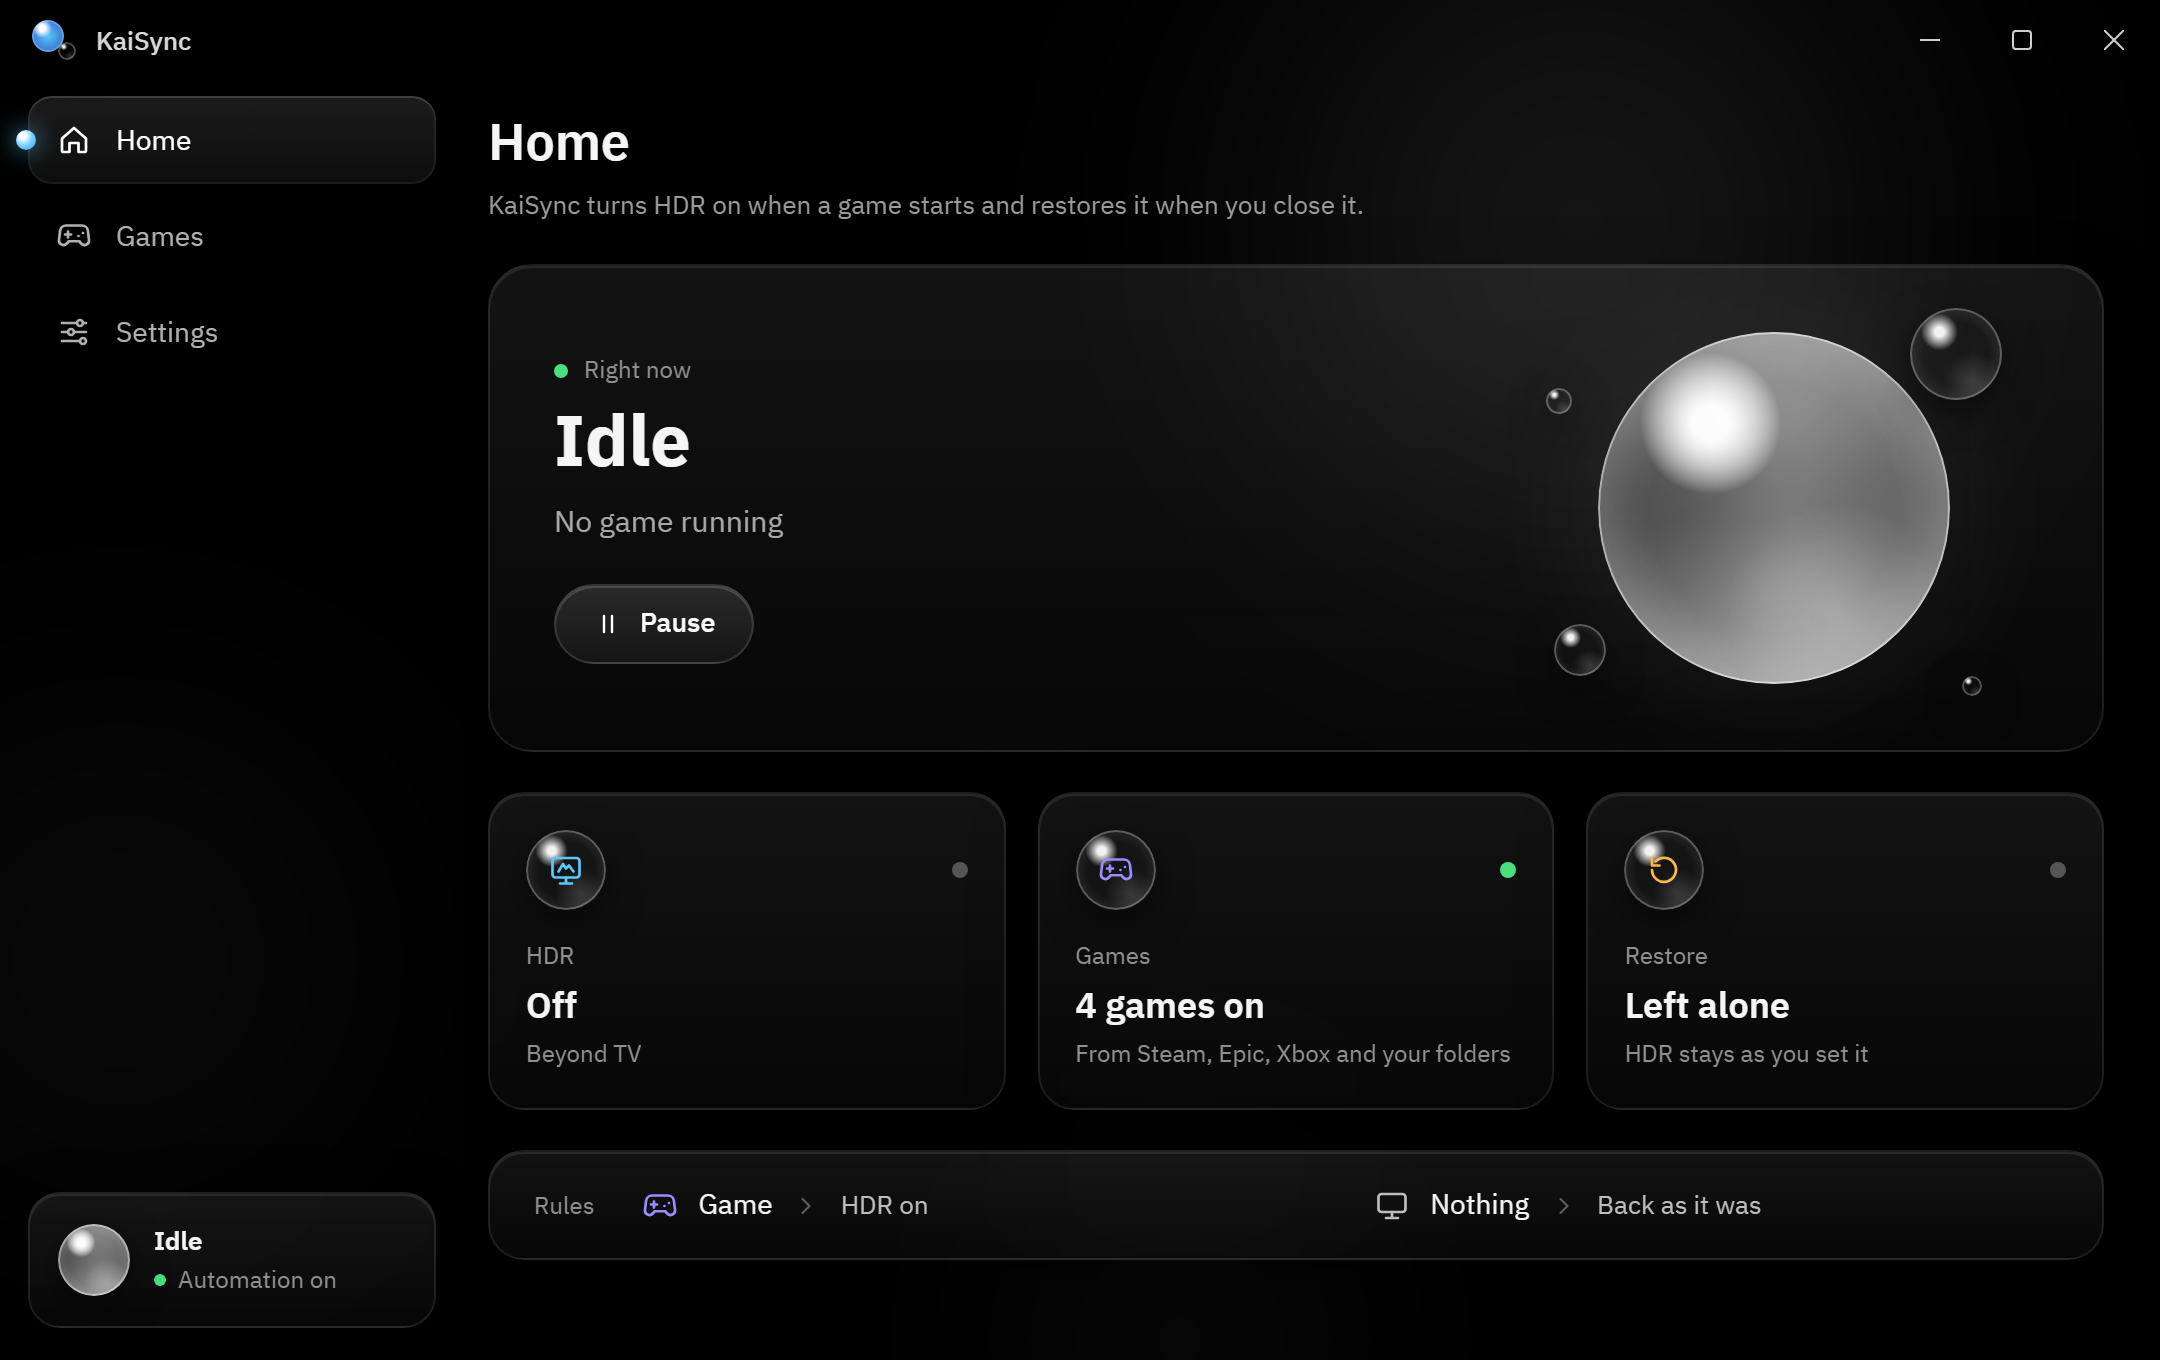
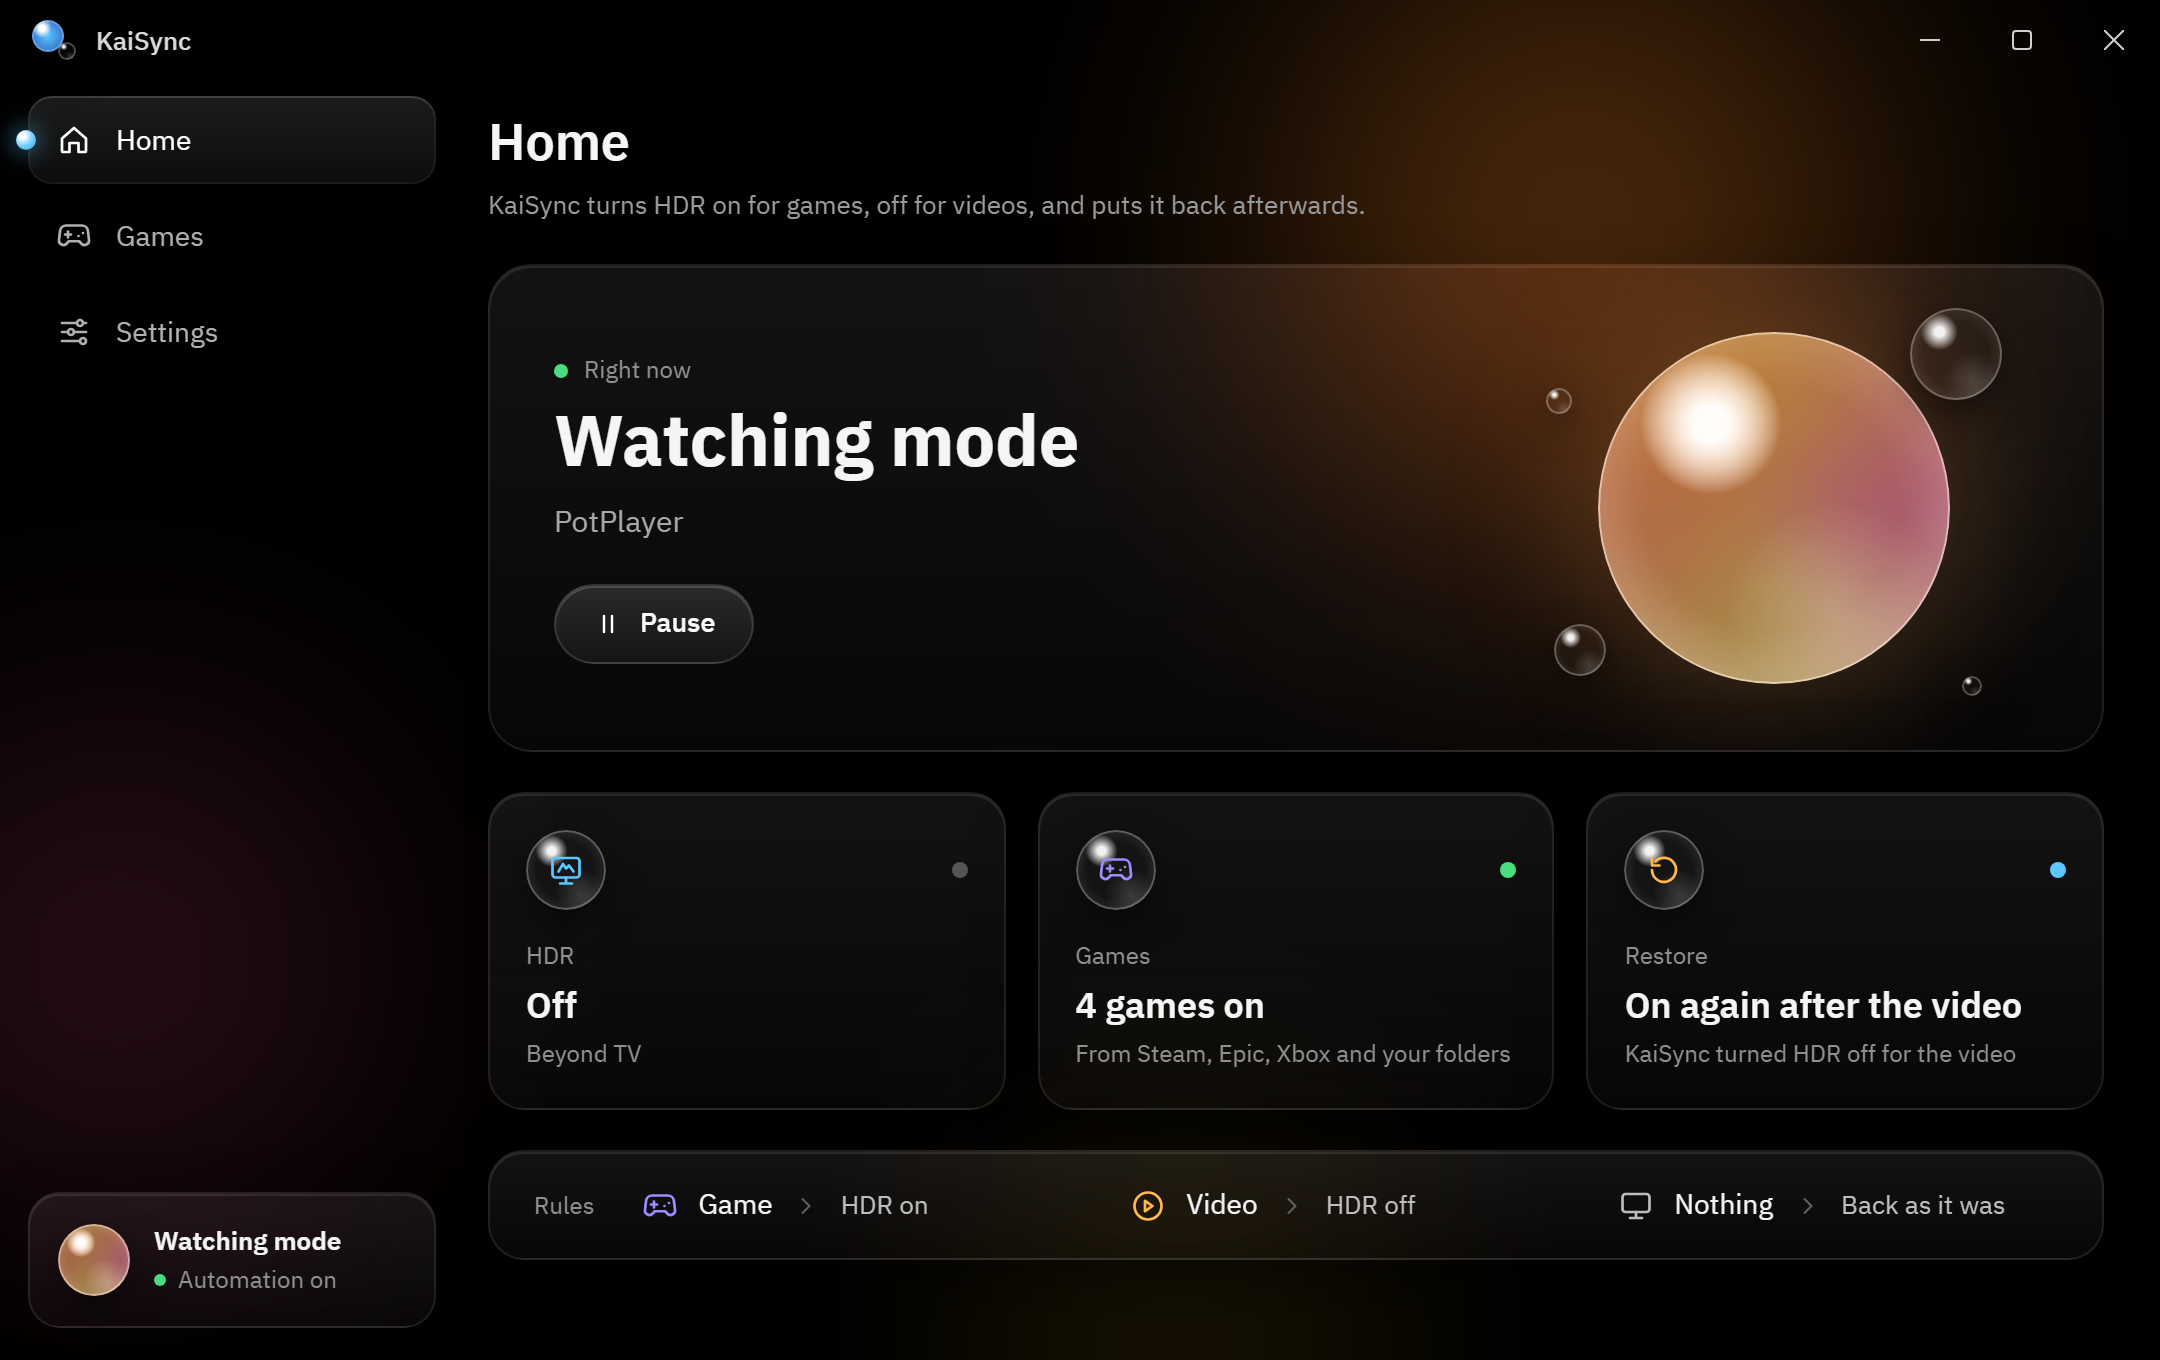
README and screenshots for 1.1.0
- README: video rule (HDR off while the player runs), priority, player setting,
  1.1.0 downloads, Watching-mode screenshot
- Home subtitle mentions videos too
- Screenshots re-captured (Watching mode, video player card, third rule)

diff --git a/README.md b/README.md
@@ -1,16 +1,23 @@
 # KaiSync
 
-برنامج صغير لويندوز ١١ يشتغل جنب الساعة. يشغّل **HDR** تلقائياً أول ما تفتح لعبة، ولما تقفلها يرجّعه زي ما كان.
+برنامج صغير لويندوز ١١ يشتغل جنب الساعة. يشغّل **HDR** تلقائياً أول ما تفتح لعبة، ويطفّيه لما تتفرج على فيديو في PotPlayer، وبعدها يرجّعه زي ما كان.
 
 ![الرئيسية](docs/screenshots/home-ar.png)
 
 | وش شغّال | HDR |
 |---|---|
 | لعبة | يشتغل |
-| ولا شي | يرجع زي ما كان. KaiSync ما يطفيه إلا إذا كان هو اللي شغّله |
+| مشغّل الفيديو (PotPlayer) | ينطفي |
+| ولا شي | يرجع زي ما كان. KaiSync ما يرجّع إلا اللي غيّره هو |
+
+الأولوية: **لعبة ← فيديو ← ولا شي**. يعني لو فيه لعبة شغّالة وPotPlayer مفتوح، HDR يبقى شغّال.
 
 - **اكتشاف الألعاب:** من Steam و Epic و Xbox، ومن مجلدات الألعاب اللي تضيفها، ومن ملفات exe تضيفها يدوياً. وتقدر تستثني أي لعبة.
-- **قاعدة الإرجاع:** إذا HDR كان شغّال قبل اللعبة، يبقى شغّال بعدها. والبرنامج يتذكر هالشي حتى لو انقفل فجأة.
+- **مشغّل الفيديو:** يلقى PotPlayer لحاله، وتقدر تختار أي مشغّل ثاني من الإعدادات.
+- **قاعدة الإرجاع:** KaiSync يرجّع بس اللي غيّره هو:
+  - إذا HDR كان شغّال قبل اللعبة، يبقى شغّال بعدها.
+  - إذا كان طافي قبل الفيديو، يبقى طافي بعده.
+  - والبرنامج يتذكر هالشي حتى لو انقفل فجأة.
 - **ما يحتاج صلاحيات مدير.**
 - **الواجهة:** بالعربي والإنجليزي، والسجلات في `%APPDATA%\KaiSync\logs\`.
 
@@ -22,8 +29,8 @@
 
 | الملف | النسخة |
 |---|---|
-| `KaiSync_1.0.0_x64-setup.exe` | **نسخة التثبيت** (هذي اللي ننصح فيها). تثبّت للمستخدم الحالي بدون صلاحيات مدير، وتضيف البرنامج لقائمة ابدأ، وتقدر تسوي أيقونة على سطح المكتب، وتقدر تحذفه من إعدادات ويندوز |
-| `KaiSync_1.0.0_x64-portable.exe` | **نسخة بورتبل**: ملف واحد يشتغل على طول بدون تثبيت. حطه في المجلد اللي تبيه وشغّله |
+| `KaiSync_1.1.0_x64-setup.exe` | **نسخة التثبيت** (هذي اللي ننصح فيها). تثبّت للمستخدم الحالي بدون صلاحيات مدير، وتضيف البرنامج لقائمة ابدأ، وتقدر تسوي أيقونة على سطح المكتب، وتقدر تحذفه من إعدادات ويندوز |
+| `KaiSync_1.1.0_x64-portable.exe` | **نسخة بورتبل**: ملف واحد يشتغل على طول بدون تثبيت. حطه في المجلد اللي تبيه وشغّله |
 
 - **أول تشغيل:** يسجّل البرنامج نفسه في التشغيل مع الويندوز، فيشتغل بالخلفية بدون نافذة، وتلقاه في السهم الصغير جنب الساعة. وتقدر تطفي هالخيار من الإعدادات.
 - **النسخة البورتبل:** إعداداتها في `%APPDATA%\KaiSync` مثل نسخة التثبيت. لو نقلت الملف لمكان ثاني، شغّله مرة من المكان الجديد عشان يتحدّث مسار التشغيل مع الويندوز.
@@ -35,9 +42,9 @@
 |---|---|
 | ![الألعاب](docs/screenshots/games-ar.png) | ![الإعدادات](docs/screenshots/settings-ar.png) |
 
-| English | قائمة الأيقونة جنب الساعة |
+| وضع المتابعة (English) | قائمة الأيقونة جنب الساعة |
 |---|---|
-| ![Home in English](docs/screenshots/home-en.png) | ![قائمة الأيقونة](docs/screenshots/tray-ar.png) |
+| ![Watching mode in English](docs/screenshots/home-en.png) | ![قائمة الأيقونة](docs/screenshots/tray-ar.png) |
 
 ## طريقة الاستخدام
 
@@ -51,6 +58,7 @@
 ## ملاحظات
 
 - **متى يشتغل HDR:** أول ما تظهر اللعبة، بدون انتظار. السبب إن ألعاب كثيرة، مثل ألعاب Unreal، تفحص HDR مرة وحدة بس وقت ما تشتغل. أما إطفاؤه فما يصير إلا إذا بقت اللعبة مقفولة ٣ ثواني.
+- **الفيديو:** يطفّي HDR مع أي فيديو في المشغّل، حتى لو كان الفيديو نفسه HDR. ويستنى ٣ ثواني قبل ما يطفّيه، عشان لو فتحت المشغّل وسكّرته بسرعة ما ترمش الشاشة.
 - **ويندوز ١١ نسخة 24H2 وأحدث:** يستخدم `GET_ADVANCED_COLOR_INFO_2` / `SET_HDR_STATE`. والنسخ الأقدم تستخدم الطريقة القديمة.
 - **برامج مطفية من البداية:** Wallpaper Engine و Lossless Scaling من Steam، لأنها تشتغل طول الوقت أو مع الألعاب. وتقدر تفعّلها من صفحة الألعاب.
 - **مبني بـ:** Tauri 2 (Rust) و React 19.
